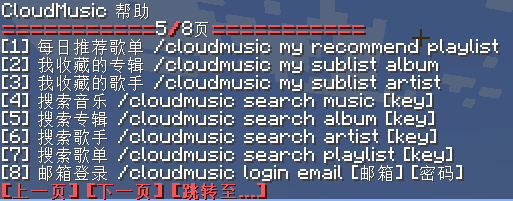
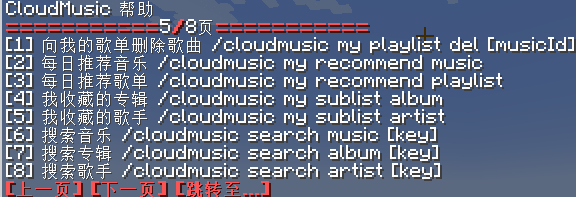
v0.4.0 fix help

diff --git a/src/main/java/fengliu/cloudmusic/command/MusicCommand.java b/src/main/java/fengliu/cloudmusic/command/MusicCommand.java
@@ -30,76 +30,78 @@ public class MusicCommand {
     private static My my = null;
     public static boolean loadQRCode = false;
     private static final Text[] helps = {
-            Text.translatable("cloudmusic.help.music"),
-            Text.translatable("cloudmusic.help.music.play"),
-            Text.translatable("cloudmusic.help.music.like"),
-            Text.translatable("cloudmusic.help.music.unlike"),
-            Text.translatable("cloudmusic.help.music.similar.music"),
-            Text.translatable("cloudmusic.help.music.similar.playlist"),
+        Text.translatable("cloudmusic.help.music"),
+        Text.translatable("cloudmusic.help.music.play"),
+        Text.translatable("cloudmusic.help.music.like"),
+        Text.translatable("cloudmusic.help.music.unlike"),
+        Text.translatable("cloudmusic.help.music.similar.music"),
+        Text.translatable("cloudmusic.help.music.similar.playlist"),
 
-            Text.translatable("cloudmusic.help.playlist"),
-            Text.translatable("cloudmusic.help.playlist.play"),
-            Text.translatable("cloudmusic.help.playlist.subscribe"),
-            Text.translatable("cloudmusic.help.playlist.unsubscribe"),
-            Text.translatable("cloudmusic.help.playlist.add"),
-            Text.translatable("cloudmusic.help.playlist.del"),
+        Text.translatable("cloudmusic.help.playlist"),
+        Text.translatable("cloudmusic.help.playlist.play"),
+        Text.translatable("cloudmusic.help.playlist.subscribe"),
+        Text.translatable("cloudmusic.help.playlist.unsubscribe"),
+        Text.translatable("cloudmusic.help.playlist.add"),
+        Text.translatable("cloudmusic.help.playlist.del"),
 
-            Text.translatable("cloudmusic.help.artist"),
-            Text.translatable("cloudmusic.help.artist.top"),
-            Text.translatable("cloudmusic.help.artist.album"),
-            Text.translatable("cloudmusic.help.artist.similar"),
-            Text.translatable("cloudmusic.help.artist.subscribe"),
-            Text.translatable("cloudmusic.help.artist.unsubscribe"),
+        Text.translatable("cloudmusic.help.artist"),
+        Text.translatable("cloudmusic.help.artist.top"),
+        Text.translatable("cloudmusic.help.artist.album"),
+        Text.translatable("cloudmusic.help.artist.similar"),
+        Text.translatable("cloudmusic.help.artist.subscribe"),
+        Text.translatable("cloudmusic.help.artist.unsubscribe"),
 
-            Text.translatable("cloudmusic.help.album"),
-            Text.translatable("cloudmusic.help.album.play"),
-            Text.translatable("cloudmusic.help.album.subscribe"),
-            Text.translatable("cloudmusic.help.album.unsubscribe"),
+        Text.translatable("cloudmusic.help.album"),
+        Text.translatable("cloudmusic.help.album.play"),
+        Text.translatable("cloudmusic.help.album.subscribe"),
+        Text.translatable("cloudmusic.help.album.unsubscribe"),
 
-            Text.translatable("cloudmusic.help.user"),
-            Text.translatable("cloudmusic.help.user.playlist"),
-            Text.translatable("cloudmusic.help.user.like"),
-            Text.translatable("cloudmusic.help.user.record.all"),
-            Text.translatable("cloudmusic.help.user.record.week"),
+        Text.translatable("cloudmusic.help.user"),
+        Text.translatable("cloudmusic.help.user.playlist"),
+        Text.translatable("cloudmusic.help.user.like"),
+        Text.translatable("cloudmusic.help.user.record.all"),
+        Text.translatable("cloudmusic.help.user.record.week"),
 
-            Text.translatable("cloudmusic.help.my"),
-            Text.translatable("cloudmusic.help.my.fm"),
-            Text.translatable("cloudmusic.help.my.like"),
-            Text.translatable("cloudmusic.help.my.playlist"),
-            Text.translatable("cloudmusic.help.my.recommend.music"),
-            Text.translatable("cloudmusic.help.my.recommend.playlist"),
-            Text.translatable("cloudmusic.help.my.sublist.album"),
-            Text.translatable("cloudmusic.help.my.sublist.artist"),
+        Text.translatable("cloudmusic.help.my"),
+        Text.translatable("cloudmusic.help.my.fm"),
+        Text.translatable("cloudmusic.help.my.like"),
+        Text.translatable("cloudmusic.help.my.playlist"),
+        Text.translatable("cloudmusic.help.my.playlist.add"),
+        Text.translatable("cloudmusic.help.my.playlist.del"),
+        Text.translatable("cloudmusic.help.my.recommend.music"),
+        Text.translatable("cloudmusic.help.my.recommend.playlist"),
+        Text.translatable("cloudmusic.help.my.sublist.album"),
+        Text.translatable("cloudmusic.help.my.sublist.artist"),
 
-            Text.translatable("cloudmusic.help.search.music"),
-            Text.translatable("cloudmusic.help.search.album"),
-            Text.translatable("cloudmusic.help.search.artist"),
-            Text.translatable("cloudmusic.help.search.playlist"),
+        Text.translatable("cloudmusic.help.search.music"),
+        Text.translatable("cloudmusic.help.search.album"),
+        Text.translatable("cloudmusic.help.search.artist"),
+        Text.translatable("cloudmusic.help.search.playlist"),
 
-            Text.translatable("cloudmusic.help.login.email"),
-            Text.translatable("cloudmusic.help.login.country.code"),
-            Text.translatable("cloudmusic.help.login.captcha"),
-            Text.translatable("cloudmusic.help.login.captcha.login"),
-            Text.translatable("cloudmusic.help.login.captcha.phone"),
-            Text.translatable("cloudmusic.help.login.qr"),
+        Text.translatable("cloudmusic.help.login.email"),
+        Text.translatable("cloudmusic.help.login.country.code"),
+        Text.translatable("cloudmusic.help.login.captcha"),
+        Text.translatable("cloudmusic.help.login.captcha.login"),
+        Text.translatable("cloudmusic.help.login.captcha.phone"),
+        Text.translatable("cloudmusic.help.login.qr"),
 
-            Text.translatable("cloudmusic.help.volume"),
-            Text.translatable("cloudmusic.help.volume.volume"),
+        Text.translatable("cloudmusic.help.volume"),
+        Text.translatable("cloudmusic.help.volume.volume"),
 
-            Text.translatable("cloudmusic.help.page.prev"),
-            Text.translatable("cloudmusic.help.page.next"),
-            Text.translatable("cloudmusic.help.page.to"),
+        Text.translatable("cloudmusic.help.page.prev"),
+        Text.translatable("cloudmusic.help.page.next"),
+        Text.translatable("cloudmusic.help.page.to"),
 
-            Text.translatable("cloudmusic.help.playing"),
-            Text.translatable("cloudmusic.help.playing.all"),
+        Text.translatable("cloudmusic.help.playing"),
+        Text.translatable("cloudmusic.help.playing.all"),
 
-            Text.translatable("cloudmusic.help.stop"),
-            Text.translatable("cloudmusic.help.continue"),
-            Text.translatable("cloudmusic.help.prev"),
-            Text.translatable("cloudmusic.help.next"),
-            Text.translatable("cloudmusic.help.to"),
-            Text.translatable("cloudmusic.help.exit"),
-            Text.translatable("cloudmusic.help.cloudmusic"),
+        Text.translatable("cloudmusic.help.stop"),
+        Text.translatable("cloudmusic.help.continue"),
+        Text.translatable("cloudmusic.help.prev"),
+        Text.translatable("cloudmusic.help.next"),
+        Text.translatable("cloudmusic.help.to"),
+        Text.translatable("cloudmusic.help.exit"),
+        Text.translatable("cloudmusic.help.cloudmusic"),
     };
     private static final List<Text> helpsList = new ArrayList<>();
 
